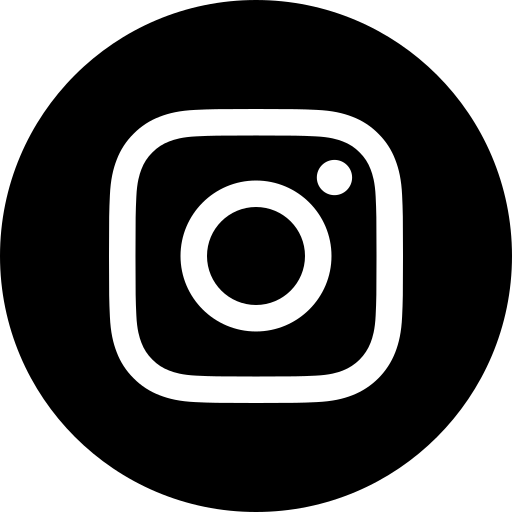
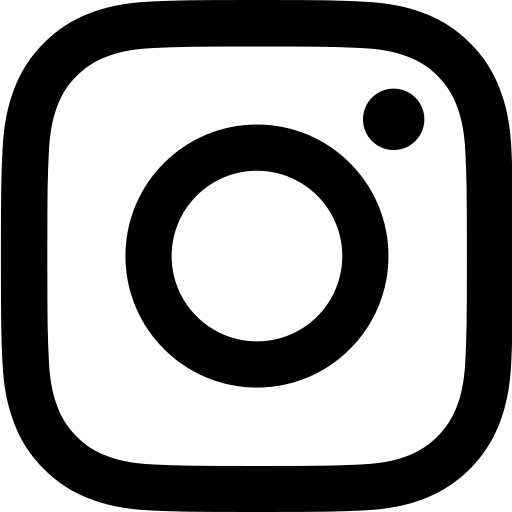
Add socials

diff --git a/Frontend/css/styles.css b/Frontend/css/styles.css
@@ -269,7 +269,9 @@ h5 {
 #name-center {
   font-size: 4.5rem;
   font-family: Batica;
-  color: #00adb5;
+  background-color: #00adb5;
+  color: #222831;
+  padding: 20px;
   line-height: 1;
 }
 #asterisk-explanation {
@@ -278,12 +280,32 @@ h5 {
   text-align: right;
 }
 
+.socials {
+  display: flex;
+  flex-direction: row;
+  gap: 20px;
+  justify-content: left;
+  justify-self: center;
+}
+.social-container {
+  padding: 10px 14px;
+  border-radius: 25px;
+  transition: all 0.2s ease-in-out;
+  background-color: #c9bfc5;
+}
+.social-container:hover {
+  background-color: #00adb5;
+}
+.social-img {
+  height: 25px;
+  width: auto;
+  margin-top: 4px;
+}
 .image-container {
   background-color: #c9bfc5;
   display: flex;
   flex-direction: column;
   border-radius: 30px;
-  filter: drop-shadow(5px 5px black);
   overflow: hidden;
 }
 

diff --git a/Frontend/pages/index.html b/Frontend/pages/index.html
@@ -51,6 +51,24 @@
         <h3 id="top-text">Hi, I am</h3>
         <h1 id="name-center">Arjun Sanesh</h1>
         <h5 id="asterisk-explanation">* Indicates Genius</h5>
+        <div class="socials">
+          <div class="social-container">
+            <a href="instgram.com"
+              ><img
+                src="../assets/images/instagram.png"
+                class="social-img"
+                alt="Instagram"
+            /></a>
+          </div>
+          <div class="social-container">
+            <a href="www.linkedin.com"
+              ><img
+                src="../assets/images/linkedin.png"
+                class="social-img"
+                alt="LinkedIn"
+            /></a>
+          </div>
+        </div>
       </div>
       <div class="image-side">
         <div class="image-container">
